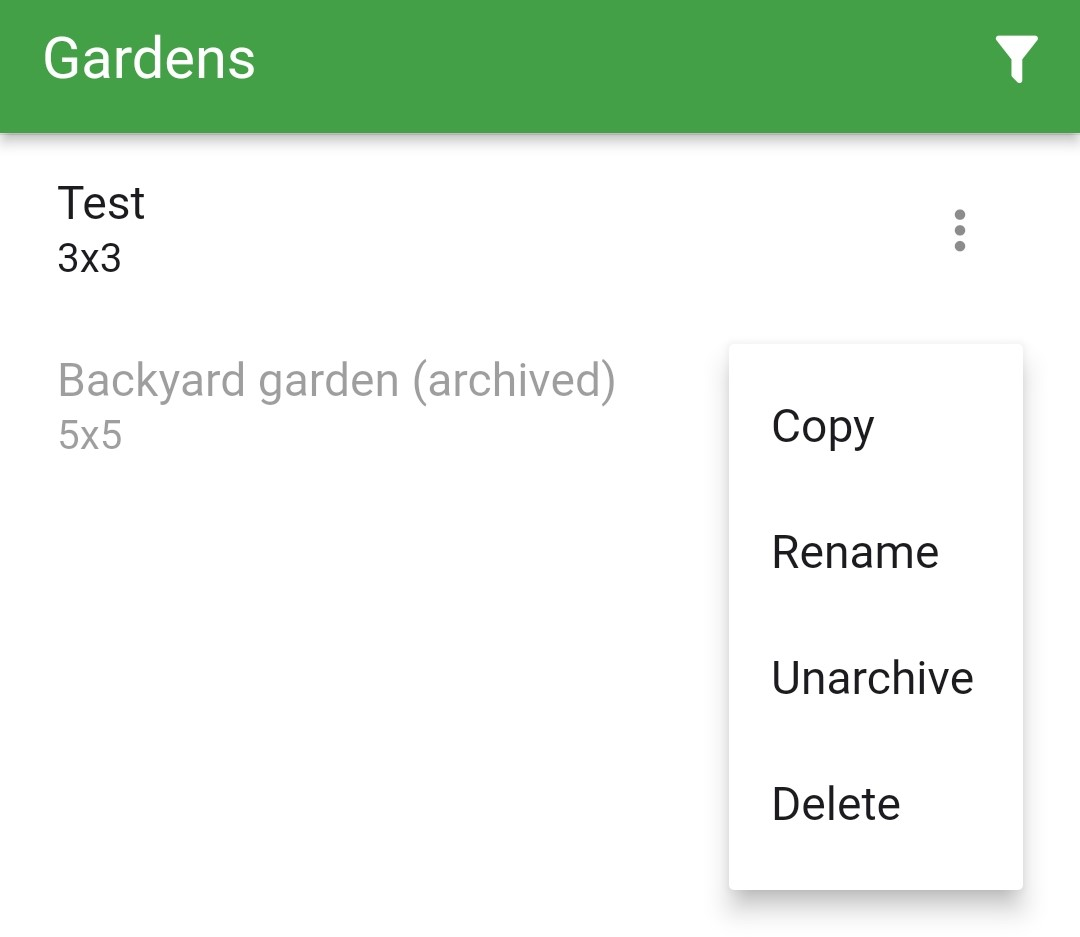
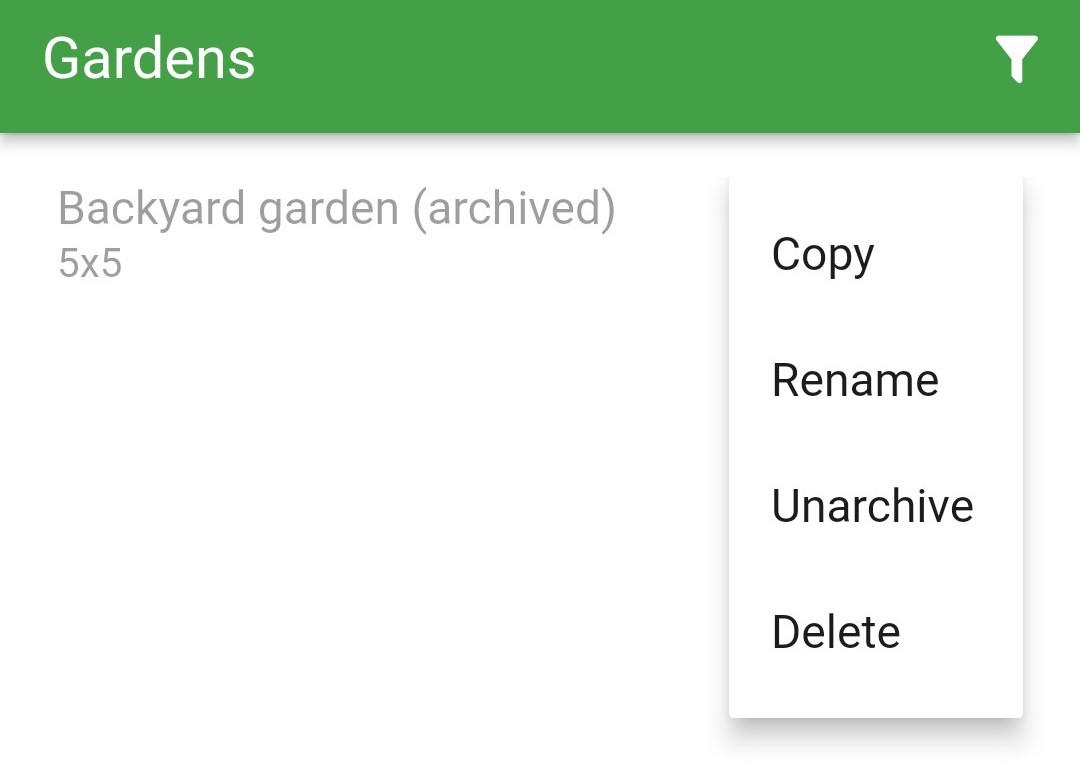
Edit archiving screenshots

diff --git a/content/en/docs/100_gardens/111_archive/index.md b/content/en/docs/100_gardens/111_archive/index.md
@@ -18,6 +18,6 @@ url: "garden/archive"
 2. Check **Show Archived**<br /><br />
 {{< screenshot Garden-show-archived.jpg "Screenshot of the Show Archived checkbox" >}}<br /><br />
 3. From the Gardens list, select the **three dots icon ⋮** beside the garden you want to unarchive<br /><br />
-{{< screenshot Garden-list-dot.jpg "Screenshot of the three dots icon" >}}<br /><br />
+{{< screenshot Garden-list-dot2.jpg "Screenshot of the three dots icon" >}}<br /><br />
 4. Select **Unarchive** from the drop-down menu<br /><br />
 {{< screenshot Garden-dropdown2.jpg "Screenshot of the unarchive option in the drop-down menu" >}}
